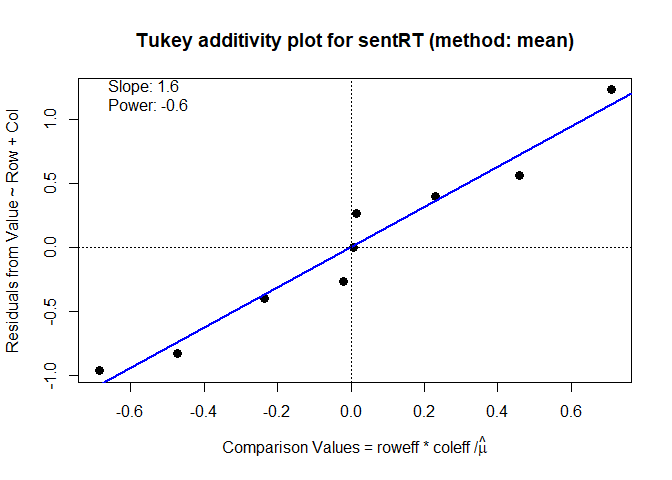
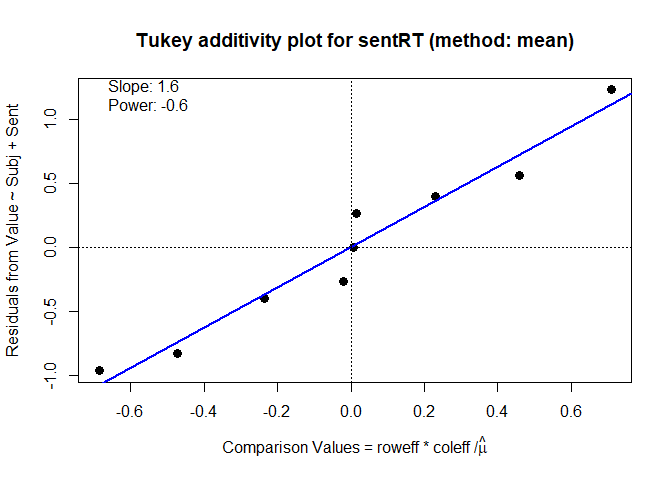
edit README

Changed region(s): [[0.0, 0.2188, 0.0312, 0.75]]

diff --git a/docs/index.html b/docs/index.html
@@ -62,11 +62,11 @@
 <h2 id="twoway-">twoway <img src="reference/figures/logo.png" align="right" height="200px" alt="twoway logo"><a class="anchor" aria-label="anchor" href="#twoway-"></a>
 </h2>
 <p><strong>Analysis of Two-Way Tables a la Tukey</strong></p>
-<p>Version: 0.7.0 <!--0.6.3  --></p>
+<p>Version: 0.7.0 <!--0.7.0  --></p>
 <p>The <code>twoway</code> package provides analysis and graphical methods for two-way tables with one observation per cell, most typically used in an Analysis of Variance (ANOVA) context. The methods follow Tukey (1949), “One Degree of Freedom for Non-additivity”, explained more concretely in Tukey (1972), <em>Exploratory Data Analysis</em>, but the graphical ideas are more interesting and general:</p>
 <ul>
-<li>How to display an <strong>assumed</strong> additive relation between two factors graphically, and visualize departures from an additive fit?</li>
-<li>How to assess <strong>visually</strong> whether a power transformation of the response might be more nearly additive in the factors?</li>
+<li><p>How to display an <strong>assumed</strong> additive relation between two factors graphically, and visualize departures from an additive fit? The plot method here uses a rectangle for the row and column effects, but rotated 40 degrees so that the vertical axis represents the fitted value under an additive model. In this, the actual value can be shown as a vertical segment representing the departure from an additive model.</p></li>
+<li><p>How to assess <strong>visually</strong> whether a power transformation of the response, <math display="inline" xmlns="http://www.w3.org/1998/Math/MathML"><semantics><msup><mi>y</mi><mi>p</mi></msup><annotation encoding="application/x-tex">y^p</annotation></semantics></math> might be more nearly additive in the factors? The diagnostic plot implemented here shows a plot designed so that the slope <math display="inline" xmlns="http://www.w3.org/1998/Math/MathML"><semantics><mi>b</mi><annotation encoding="application/x-tex">b</annotation></semantics></math> of a fitted line suggests a transformation <math display="inline" xmlns="http://www.w3.org/1998/Math/MathML"><semantics><mrow><mi>y</mi><mo>→</mo><msup><mi>y</mi><mrow><mn>1</mn><mo>−</mo><mi>b</mi></mrow></msup></mrow><annotation encoding="application/x-tex">y \rightarrow y^{1-b}</annotation></semantics></math>.</p></li>
 </ul>
 <p>The goal of the package is to introduce these ideas in R, and allow further development. This R implementation is based on my SAS macro, <a href="http://www.datavis.ca/sasmac/twoway.html" class="external-link">twoway.sas</a>.</p>
 </div>
@@ -95,10 +95,11 @@
 <code class="sourceCode R"><span><span class="kw"><a href="https://rdrr.io/r/base/library.html" class="external-link">library</a></span><span class="op">(</span><span class="va"><a href="https://friendly.github.io/twoway">twoway</a></span><span class="op">)</span></span>
 <span><span class="fu"><a href="https://rdrr.io/r/utils/data.html" class="external-link">data</a></span><span class="op">(</span><span class="st">"sentRT"</span><span class="op">)</span></span>
 <span><span class="va">sentRT</span></span>
-<span><span class="co">#&gt;       sent1 sent2 sent3</span></span>
-<span><span class="co">#&gt; subj1   1.7   1.9   2.0</span></span>
-<span><span class="co">#&gt; subj2   4.4   4.5   5.7</span></span>
-<span><span class="co">#&gt; subj3   6.6   7.4  10.5</span></span></code></pre></div>
+<span><span class="co">#&gt;        Sent</span></span>
+<span><span class="co">#&gt; Subj    sent1 sent2 sent3</span></span>
+<span><span class="co">#&gt;   subj1   1.7   1.9   2.0</span></span>
+<span><span class="co">#&gt;   subj2   4.4   4.5   5.7</span></span>
+<span><span class="co">#&gt;   subj3   6.6   7.4  10.5</span></span></code></pre></div>
 <p>The <code><a href="reference/twoway.html">twoway()</a></code> function gives the basic analysis: a decomposition of the two-way table, giving the:</p>
 <ul>
 <li>grand mean (<math display="inline" xmlns="http://www.w3.org/1998/Math/MathML"><semantics><mrow><mi>μ</mi><mo>=</mo><msub><mover><mi>x</mi><mo accent="true">‾</mo></mover><mrow><mi>.</mi><mi>.</mi></mrow></msub></mrow><annotation encoding="application/x-tex">\mu = \bar{x}_{..}</annotation></semantics></math>),</li>
@@ -113,13 +114,14 @@
 <span><span class="co">#&gt; Mean decomposition (Dataset: "sentRT"; Response: Value)</span></span>
 <span><span class="co">#&gt; Residuals bordered by row effects, column effects, and overall</span></span>
 <span><span class="co">#&gt; </span></span>
-<span><span class="co">#&gt;          sent1    sent2    sent3      roweff  </span></span>
-<span><span class="co">#&gt;        + -------- -------- -------- + --------</span></span>
-<span><span class="co">#&gt; subj1  |  0.56667  0.40000 -0.96667 : -3.10000</span></span>
-<span><span class="co">#&gt; subj2  |  0.26667  0.00000 -0.26667 : -0.10000</span></span>
-<span><span class="co">#&gt; subj3  | -0.83333 -0.40000  1.23333 :  3.20000</span></span>
-<span><span class="co">#&gt;        + ........ ........ ........ + ........</span></span>
-<span><span class="co">#&gt; coleff | -0.73333 -0.36667  1.10000 :  4.96667</span></span></code></pre></div>
+<span><span class="co">#&gt;         Sent</span></span>
+<span><span class="co">#&gt; Subj       sent1    sent2    sent3      roweff  </span></span>
+<span><span class="co">#&gt;          + -------- -------- -------- + --------</span></span>
+<span><span class="co">#&gt;   subj1  |  0.56667  0.40000 -0.96667 : -3.10000</span></span>
+<span><span class="co">#&gt;   subj2  |  0.26667  0.00000 -0.26667 : -0.10000</span></span>
+<span><span class="co">#&gt;   subj3  | -0.83333 -0.40000  1.23333 :  3.20000</span></span>
+<span><span class="co">#&gt;          + ........ ........ ........ + ........</span></span>
+<span><span class="co">#&gt;   coleff | -0.73333 -0.36667  1.10000 :  4.96667</span></span></code></pre></div>
 <p><code><a href="reference/twoway.html">twoway()</a></code> also allows for a robust fitting by row and column medians, using Tukey’s idea of median polish, as implemented in <code><a href="https://rdrr.io/r/stats/medpolish.html" class="external-link">stats::medpolish()</a></code>. This uses <code>method="median"</code> in the call to <code><a href="reference/twoway.html">twoway()</a></code>.</p>
 <div class="sourceCode" id="cb5"><pre class="downlit sourceCode r">
 <code class="sourceCode R"><span><span class="fu"><a href="https://rdrr.io/r/base/print.html" class="external-link">print</a></span><span class="op">(</span><span class="fu"><a href="reference/twoway.html">twoway</a></span><span class="op">(</span><span class="va">sentRT</span>, method<span class="op">=</span><span class="st">"median"</span><span class="op">)</span>, border<span class="op">=</span><span class="fl">2</span><span class="op">)</span></span>
@@ -127,13 +129,14 @@
 <span><span class="co">#&gt; Median polish decomposition (Dataset: "sentRT"; Response: Value)</span></span>
 <span><span class="co">#&gt; Residuals bordered by row effects, column effects, and overall</span></span>
 <span><span class="co">#&gt; </span></span>
-<span><span class="co">#&gt;          sent1 sent2 sent3   roweff</span></span>
-<span><span class="co">#&gt;        + ----  ----  ----  + ----  </span></span>
-<span><span class="co">#&gt; subj1  |  0.0   0.0  -1.1  : -2.6  </span></span>
-<span><span class="co">#&gt; subj2  |  0.1   0.0   0.0  :  0.0  </span></span>
-<span><span class="co">#&gt; subj3  | -0.6   0.0   1.9  :  2.9  </span></span>
-<span><span class="co">#&gt;        + ....  ....  ....  + ....  </span></span>
-<span><span class="co">#&gt; coleff | -0.2   0.0   1.2  :  4.5</span></span></code></pre></div>
+<span><span class="co">#&gt;         Sent</span></span>
+<span><span class="co">#&gt; Subj       sent1 sent2 sent3   roweff</span></span>
+<span><span class="co">#&gt;          + ----  ----  ----  + ----  </span></span>
+<span><span class="co">#&gt;   subj1  |  0.0   0.0  -1.1  : -2.6  </span></span>
+<span><span class="co">#&gt;   subj2  |  0.1   0.0   0.0  :  0.0  </span></span>
+<span><span class="co">#&gt;   subj3  | -0.6   0.0   1.9  :  2.9  </span></span>
+<span><span class="co">#&gt;          + ....  ....  ....  + ....  </span></span>
+<span><span class="co">#&gt;   coleff | -0.2   0.0   1.2  :  4.5</span></span></code></pre></div>
 <p>The result is much simpler, in that most residuals are closer to 0, and one large one stands out.</p>
 <div class="section level3">
 <h3 id="plot-methods">Plot methods<a class="anchor" aria-label="anchor" href="#plot-methods"></a>
@@ -166,8 +169,8 @@
 <span><span class="co">#&gt; Analysis of Variance Table, assuming additivity</span></span>
 <span><span class="co">#&gt; </span></span>
 <span><span class="co">#&gt;           Df Sum Sq Mean Sq F value   Pr(&gt;F)   </span></span>
-<span><span class="co">#&gt; row        2 59.580 29.7900 30.2949 0.003835 **</span></span>
-<span><span class="co">#&gt; col        2  5.647  2.8233  2.8712 0.168574   </span></span>
+<span><span class="co">#&gt; Subj       2 59.580 29.7900 30.2949 0.003835 **</span></span>
+<span><span class="co">#&gt; Sent       2  5.647  2.8233  2.8712 0.168574   </span></span>
 <span><span class="co">#&gt; Residuals  4  3.933  0.9833                    </span></span>
 <span><span class="co">#&gt; ---</span></span>
 <span><span class="co">#&gt; Signif. codes:  0 '***' 0.001 '**' 0.01 '*' 0.05 '.' 0.1 ' ' 1</span></span>
@@ -176,8 +179,8 @@
 <span><span class="co">#&gt; Analysis of Variance Table, allowing non-additivity</span></span>
 <span><span class="co">#&gt; </span></span>
 <span><span class="co">#&gt;            Df Sum Sq Mean Sq F value    Pr(&gt;F)    </span></span>
-<span><span class="co">#&gt; row         2 59.580 29.7900 513.449 0.0001572 ***</span></span>
-<span><span class="co">#&gt; col         2  5.647  2.8233  48.662 0.0051710 ** </span></span>
+<span><span class="co">#&gt; Subj        2 59.580 29.7900 513.449 0.0001572 ***</span></span>
+<span><span class="co">#&gt; Sent        2  5.647  2.8233  48.662 0.0051710 ** </span></span>
 <span><span class="co">#&gt; nonadd      1  3.759  3.7593  64.793 0.0040046 ** </span></span>
 <span><span class="co">#&gt; pure error  3  0.174  0.0580                      </span></span>
 <span><span class="co">#&gt; ---</span></span>
@@ -192,7 +195,7 @@
 </ul>
 <div class="sourceCode" id="cb10"><pre class="downlit sourceCode r">
 <code class="sourceCode R"><span><span class="fu"><a href="https://rdrr.io/r/base/as.data.frame.html" class="external-link">as.data.frame</a></span><span class="op">(</span><span class="va">sent.2way</span><span class="op">)</span></span>
-<span><span class="co">#&gt;     row   col data  fit  dif residual roweff coleff   nonadd</span></span>
+<span><span class="co">#&gt;    Subj  Sent data  fit  dif residual roweff coleff   nonadd</span></span>
 <span><span class="co">#&gt; 1 subj1 sent1  1.7 1.13 7.33    0.567   -3.1 -0.733  0.45772</span></span>
 <span><span class="co">#&gt; 2 subj2 sent1  4.4 4.13 4.33    0.267   -0.1 -0.733  0.01477</span></span>
 <span><span class="co">#&gt; 3 subj3 sent1  6.6 7.43 1.03   -0.833    3.2 -0.733 -0.47248</span></span>

diff --git a/README.md b/README.md
@@ -16,7 +16,7 @@ Active](https://www.repostatus.org/badges/latest/active.svg)](https://www.repost
 
 **Analysis of Two-Way Tables a la Tukey**
 
-Version: 0.7.0 <!--0.6.3  -->
+Version: 0.7.0 <!--0.7.0  -->
 
 The `twoway` package provides analysis and graphical methods for two-way
 tables with one observation per cell, most typically used in an Analysis
@@ -26,9 +26,18 @@ Tukey (1972), *Exploratory Data Analysis*, but the graphical ideas are
 more interesting and general:
 
 - How to display an **assumed** additive relation between two factors
-  graphically, and visualize departures from an additive fit?
+  graphically, and visualize departures from an additive fit? The plot
+  method here uses a rectangle for the row and column effects, but
+  rotated 40 degrees so that the vertical axis represents the fitted
+  value under an additive model. In this, the actual value can be shown
+  as a vertical segment representing the departure from an additive
+  model.
+
 - How to assess **visually** whether a power transformation of the
-  response might be more nearly additive in the factors?
+  response, $y^p$ might be more nearly additive in the factors? The
+  diagnostic plot implemented here shows a plot designed so that the
+  slope $b$ of a fitted line suggests a transformation
+  $y \rightarrow y^{1-b}$.
 
 The goal of the package is to introduce these ideas in R, and allow
 further development. This R implementation is based on my SAS macro,
@@ -69,10 +78,11 @@ questions are:
 library(twoway)
 data("sentRT")
 sentRT
-#>       sent1 sent2 sent3
-#> subj1   1.7   1.9   2.0
-#> subj2   4.4   4.5   5.7
-#> subj3   6.6   7.4  10.5
+#>        Sent
+#> Subj    sent1 sent2 sent3
+#>   subj1   1.7   1.9   2.0
+#>   subj2   4.4   4.5   5.7
+#>   subj3   6.6   7.4  10.5
 ```
 
 The `twoway()` function gives the basic analysis: a decomposition of the
@@ -90,13 +100,14 @@ print(sent.2way)
 #> Mean decomposition (Dataset: "sentRT"; Response: Value)
 #> Residuals bordered by row effects, column effects, and overall
 #> 
-#>          sent1    sent2    sent3      roweff  
-#>        + -------- -------- -------- + --------
-#> subj1  |  0.56667  0.40000 -0.96667 : -3.10000
-#> subj2  |  0.26667  0.00000 -0.26667 : -0.10000
-#> subj3  | -0.83333 -0.40000  1.23333 :  3.20000
-#>        + ........ ........ ........ + ........
-#> coleff | -0.73333 -0.36667  1.10000 :  4.96667
+#>         Sent
+#> Subj       sent1    sent2    sent3      roweff  
+#>          + -------- -------- -------- + --------
+#>   subj1  |  0.56667  0.40000 -0.96667 : -3.10000
+#>   subj2  |  0.26667  0.00000 -0.26667 : -0.10000
+#>   subj3  | -0.83333 -0.40000  1.23333 :  3.20000
+#>          + ........ ........ ........ + ........
+#>   coleff | -0.73333 -0.36667  1.10000 :  4.96667
 ```
 
 `twoway()` also allows for a robust fitting by row and column medians,
@@ -110,13 +121,14 @@ print(twoway(sentRT, method="median"), border=2)
 #> Median polish decomposition (Dataset: "sentRT"; Response: Value)
 #> Residuals bordered by row effects, column effects, and overall
 #> 
-#>          sent1 sent2 sent3   roweff
-#>        + ----  ----  ----  + ----  
-#> subj1  |  0.0   0.0  -1.1  : -2.6  
-#> subj2  |  0.1   0.0   0.0  :  0.0  
-#> subj3  | -0.6   0.0   1.9  :  2.9  
-#>        + ....  ....  ....  + ....  
-#> coleff | -0.2   0.0   1.2  :  4.5
+#>         Sent
+#> Subj       sent1 sent2 sent3   roweff
+#>          + ----  ----  ----  + ----  
+#>   subj1  |  0.0   0.0  -1.1  : -2.6  
+#>   subj2  |  0.1   0.0   0.0  :  0.0  
+#>   subj3  | -0.6   0.0   1.9  :  2.9  
+#>          + ....  ....  ....  + ....  
+#>   coleff | -0.2   0.0   1.2  :  4.5
 ```
 
 The result is much simpler, in that most residuals are closer to 0, and
@@ -175,8 +187,8 @@ anova(sent.2way)
 #> Analysis of Variance Table, assuming additivity
 #> 
 #>           Df Sum Sq Mean Sq F value   Pr(>F)   
-#> row        2 59.580 29.7900 30.2949 0.003835 **
-#> col        2  5.647  2.8233  2.8712 0.168574   
+#> Subj       2 59.580 29.7900 30.2949 0.003835 **
+#> Sent       2  5.647  2.8233  2.8712 0.168574   
 #> Residuals  4  3.933  0.9833                    
 #> ---
 #> Signif. codes:  0 '***' 0.001 '**' 0.01 '*' 0.05 '.' 0.1 ' ' 1
@@ -185,8 +197,8 @@ anova(sent.2way)
 #> Analysis of Variance Table, allowing non-additivity
 #> 
 #>            Df Sum Sq Mean Sq F value    Pr(>F)    
-#> row         2 59.580 29.7900 513.449 0.0001572 ***
-#> col         2  5.647  2.8233  48.662 0.0051710 ** 
+#> Subj        2 59.580 29.7900 513.449 0.0001572 ***
+#> Sent        2  5.647  2.8233  48.662 0.0051710 ** 
 #> nonadd      1  3.759  3.7593  64.793 0.0040046 ** 
 #> pure error  3  0.174  0.0580                      
 #> ---
@@ -206,7 +218,7 @@ package](https://cran.r-project.org/package=additivityTests).
 
 ``` r
 as.data.frame(sent.2way)
-#>     row   col data  fit  dif residual roweff coleff   nonadd
+#>    Subj  Sent data  fit  dif residual roweff coleff   nonadd
 #> 1 subj1 sent1  1.7 1.13 7.33    0.567   -3.1 -0.733  0.45772
 #> 2 subj2 sent1  4.4 4.13 4.33    0.267   -0.1 -0.733  0.01477
 #> 3 subj3 sent1  6.6 7.43 1.03   -0.833    3.2 -0.733 -0.47248
